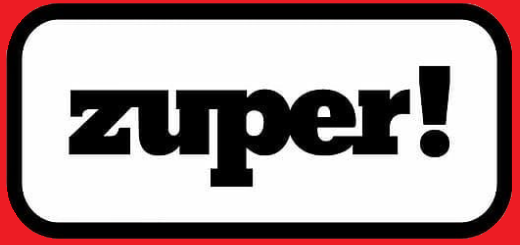
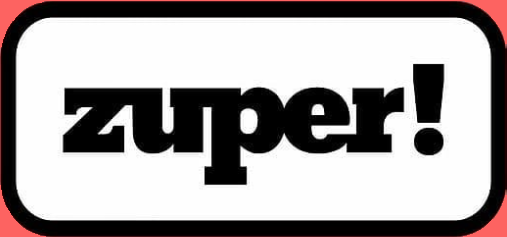
Color official

diff --git a/css/styles.css b/css/styles.css
@@ -18,7 +18,7 @@
   --blue: #00285f;
   --gray: #ededed;
   --black: #000000;
-  --red: #e21111;
+  --red: #ff6464;
 }
 
 html,
